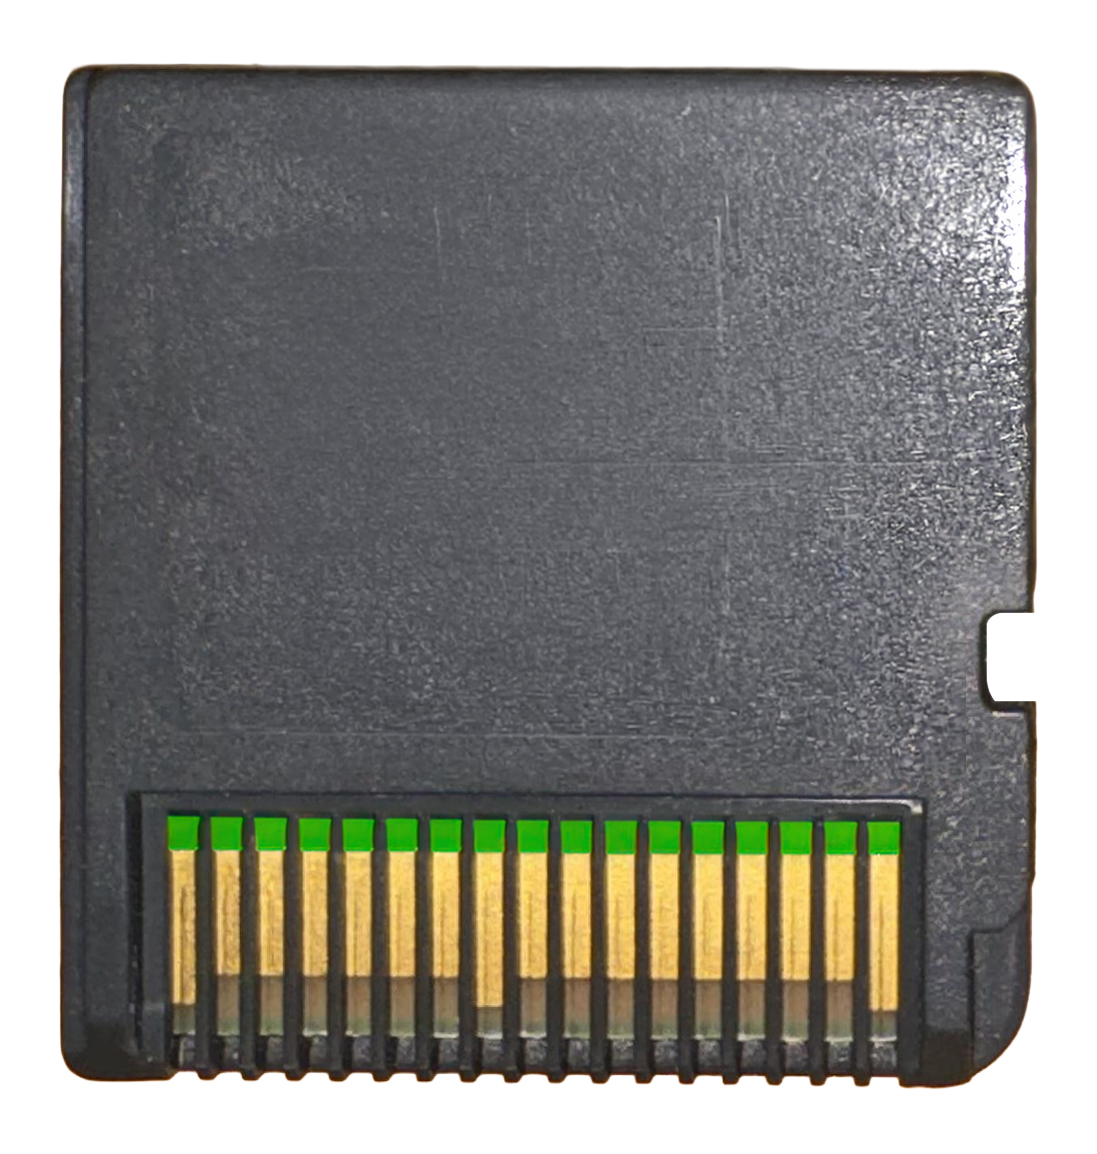
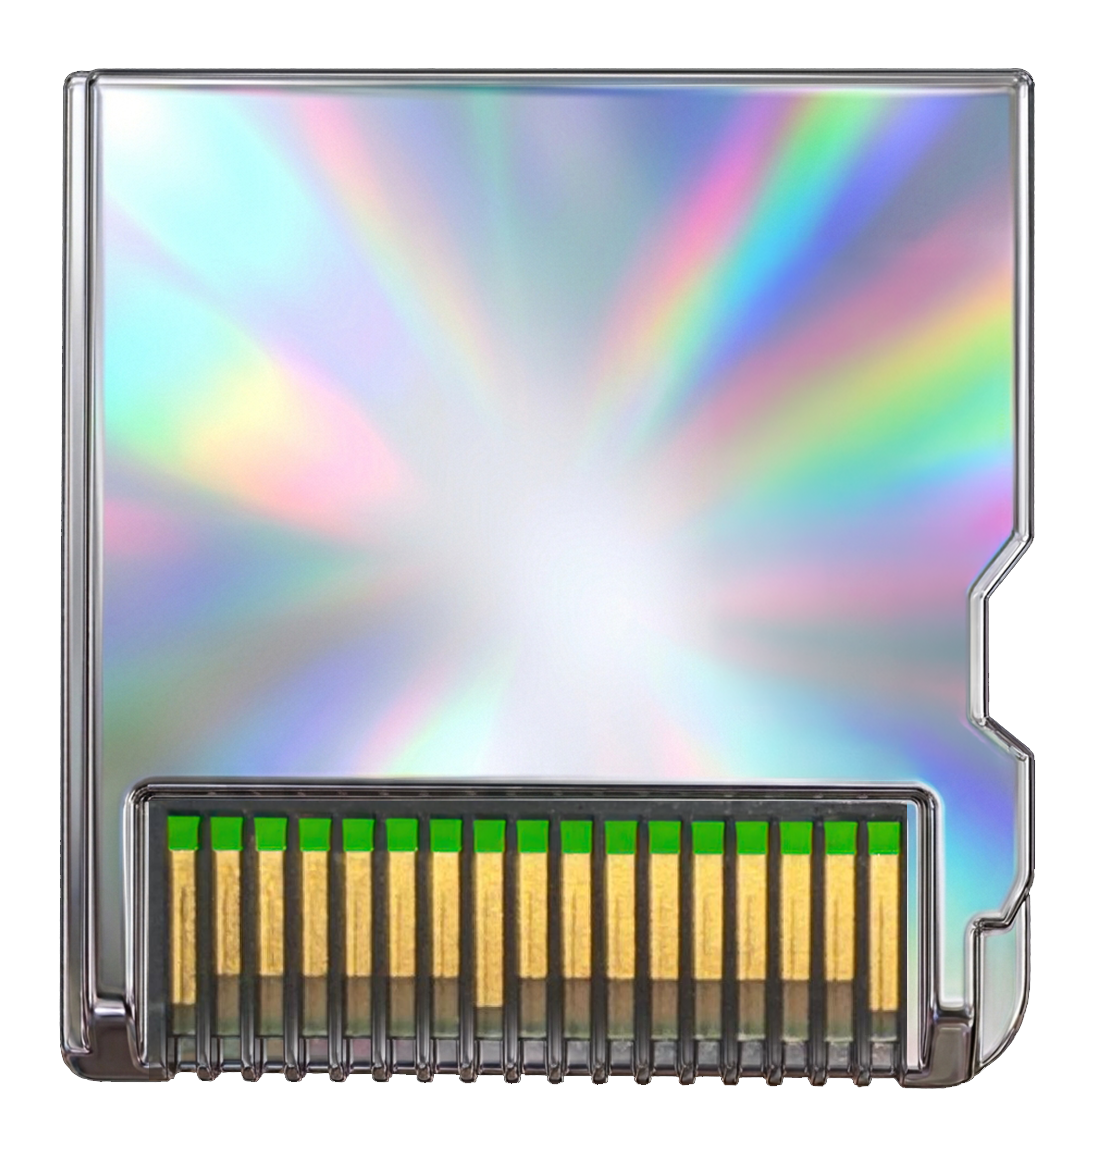
Bump version to v742

diff --git a/service-worker.js b/service-worker.js
@@ -1,4 +1,4 @@
-const CACHE_VERSION = "gamelist-cache-v571";
+const CACHE_VERSION = "gamelist-cache-v572";
 const STATIC_CACHE = `${CACHE_VERSION}:static`;
 const MEDIA_CACHE = `${CACHE_VERSION}:media`;
 const STATIC_ASSETS = [
